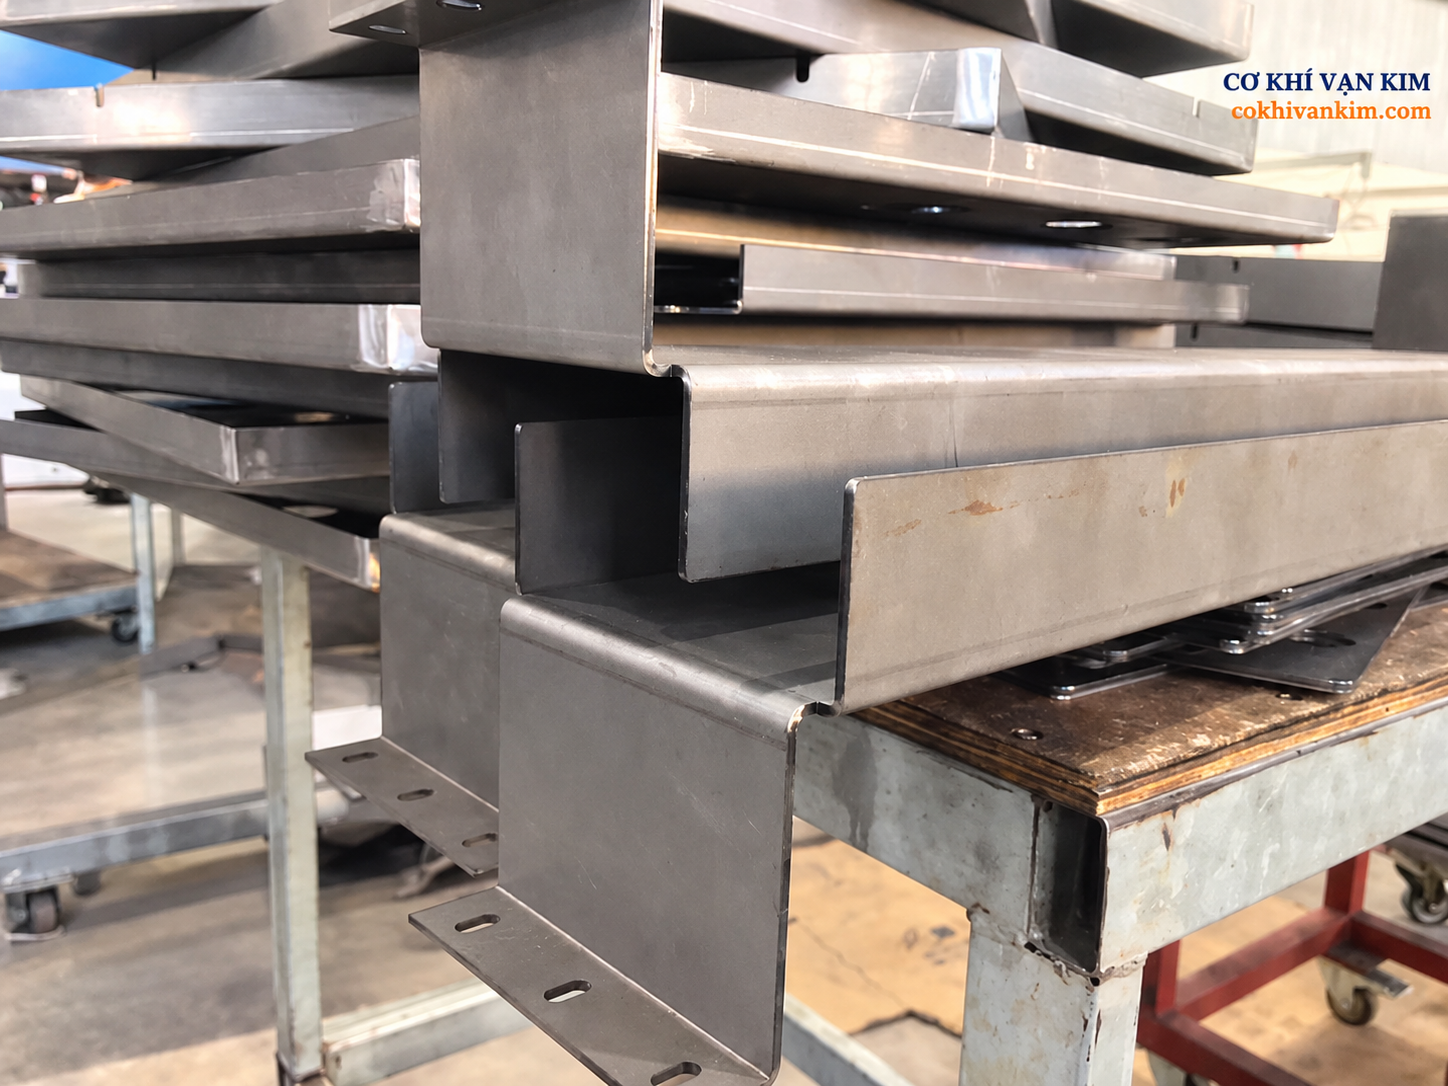
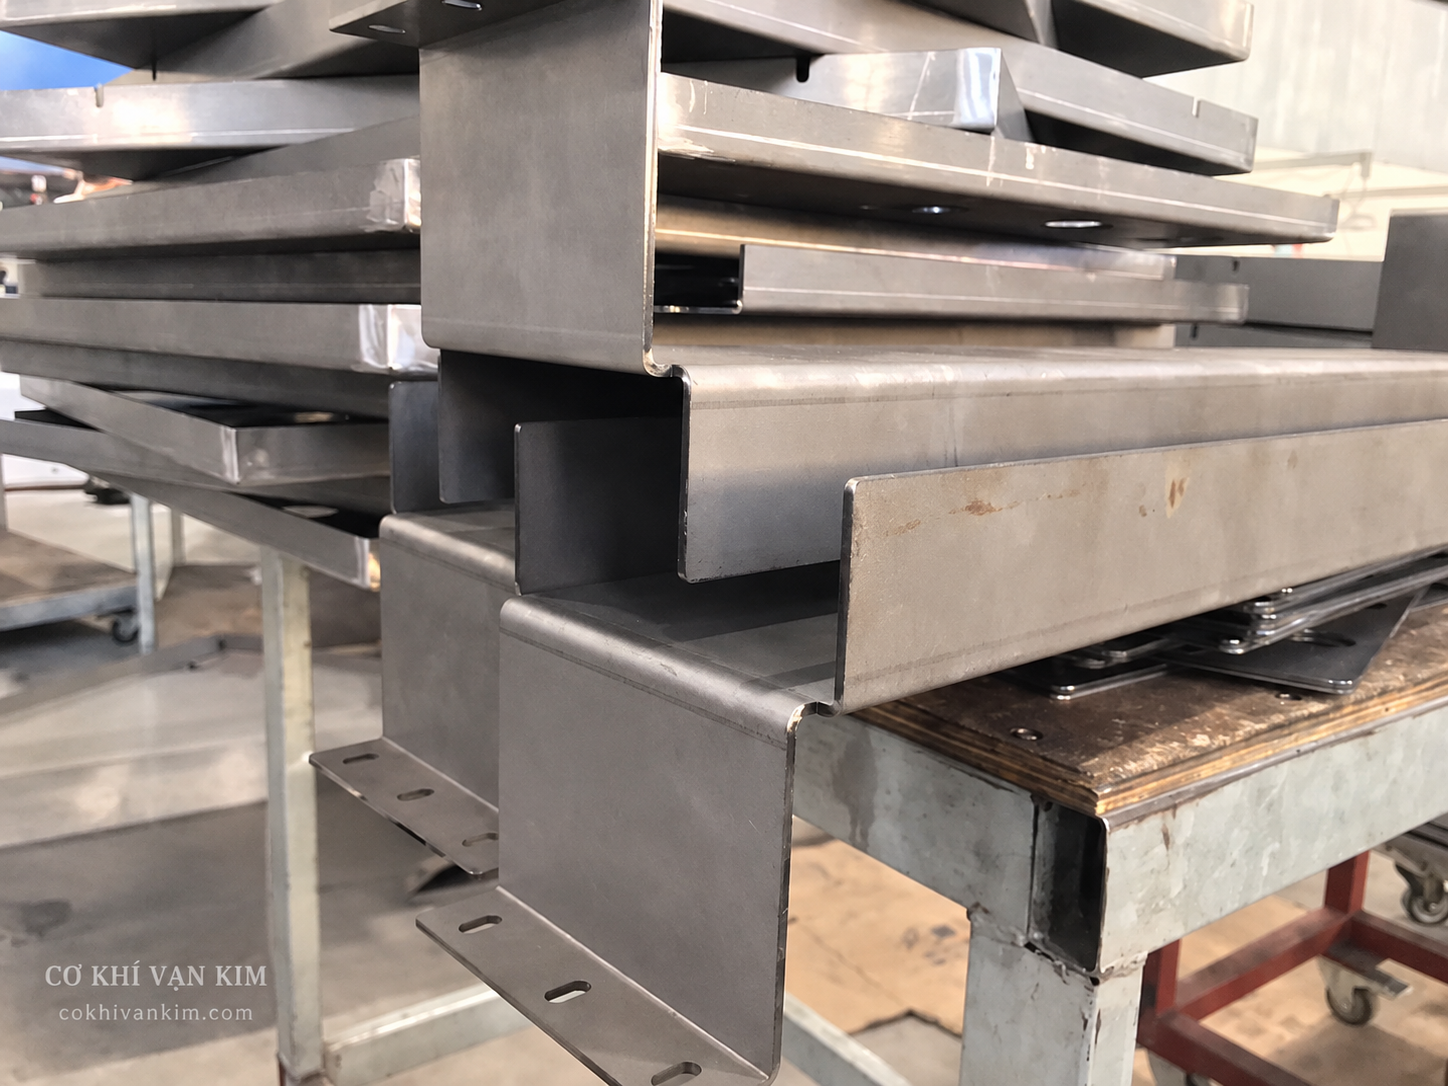
Replace watermarks on precision parts

diff --git a/WATERMARK_PLAN.md b/WATERMARK_PLAN.md
@@ -146,8 +146,8 @@ Cập nhật: 2026-10-27.
 - [x] `/media/f12a6e1f3117c315c192.jpg` → `/brand-media/cnc-milling-detail-vankim.png` — dùng ở 1 trang.
 - [x] `/media/8f0aaf9821de7cb16c0d.jpg` → `/brand-media/precision-parts-collage-vankim.png` — dùng ở 1 trang.
 - [x] `/media/803aec19a16875faba96.jpg` → `/brand-media/stacked-sheet-sections-vankim.png` — dùng ở 1 trang.
-- [x] `/media/6157066f624e4982f9ee.jpg` → `/brand-media/precision-parts-white-vankim.png` — dùng ở 2 trang.
-- [x] `/media/637abebdf65db4e2cd06.jpg` → `/brand-media/tool-holders-set-vankim.png` — dùng ở 1 trang.
+- [x] `/media/6157066f624e4982f9ee.jpg` → `/brand-media/precision-machined-parts-white-vankim.png` — dùng ở 2 trang.
+- [x] `/media/637abebdf65db4e2cd06.jpg` → `/brand-media/tool-holders-and-boring-tools-vankim.png` — dùng ở 1 trang.
 - [x] `/media/c474b73c9b62dabfb454.jpg` → `/brand-media/stainless-boxes-vankim.png` — dùng ở 1 trang.
 - [x] `/media/f5429c8c006309b89404.jpg` → `/brand-media/cnc-cutting-bed-detail-vankim.png` — dùng ở 1 trang.
 - [x] `/media/5973841e3b162d1a5062.jpg` → `/brand-media/machined-circular-fixtures-vankim.png` — dùng ở 1 trang.
